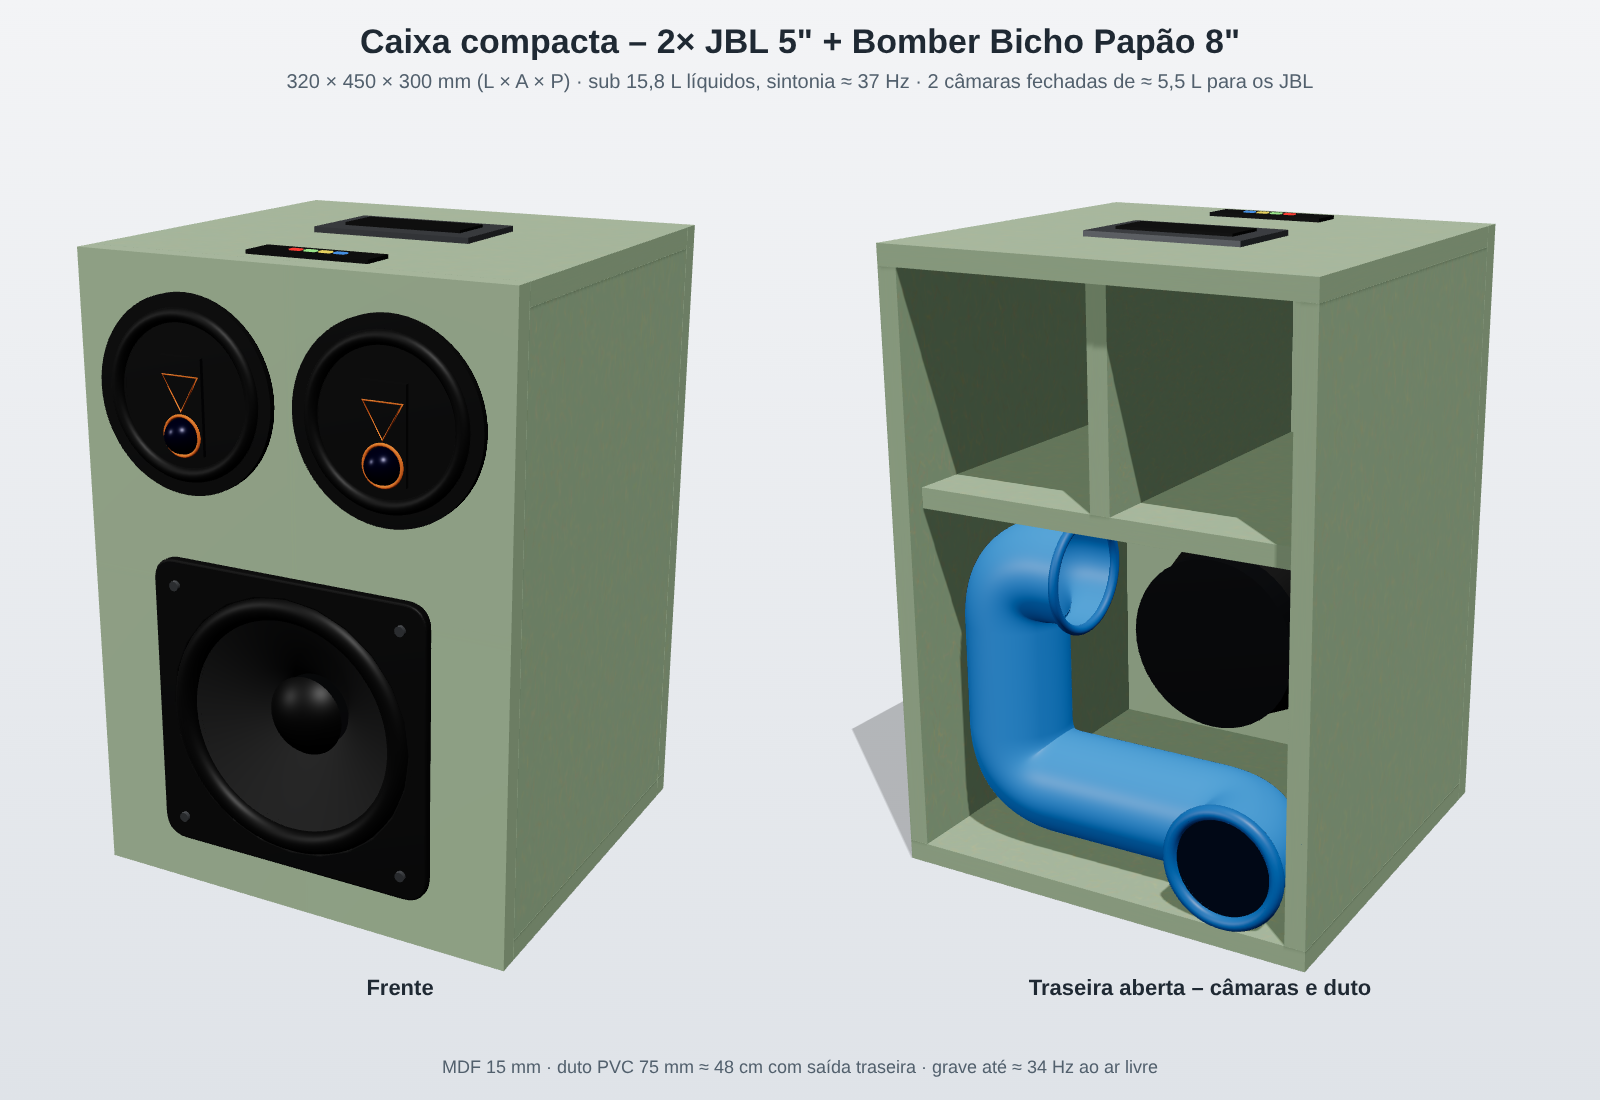
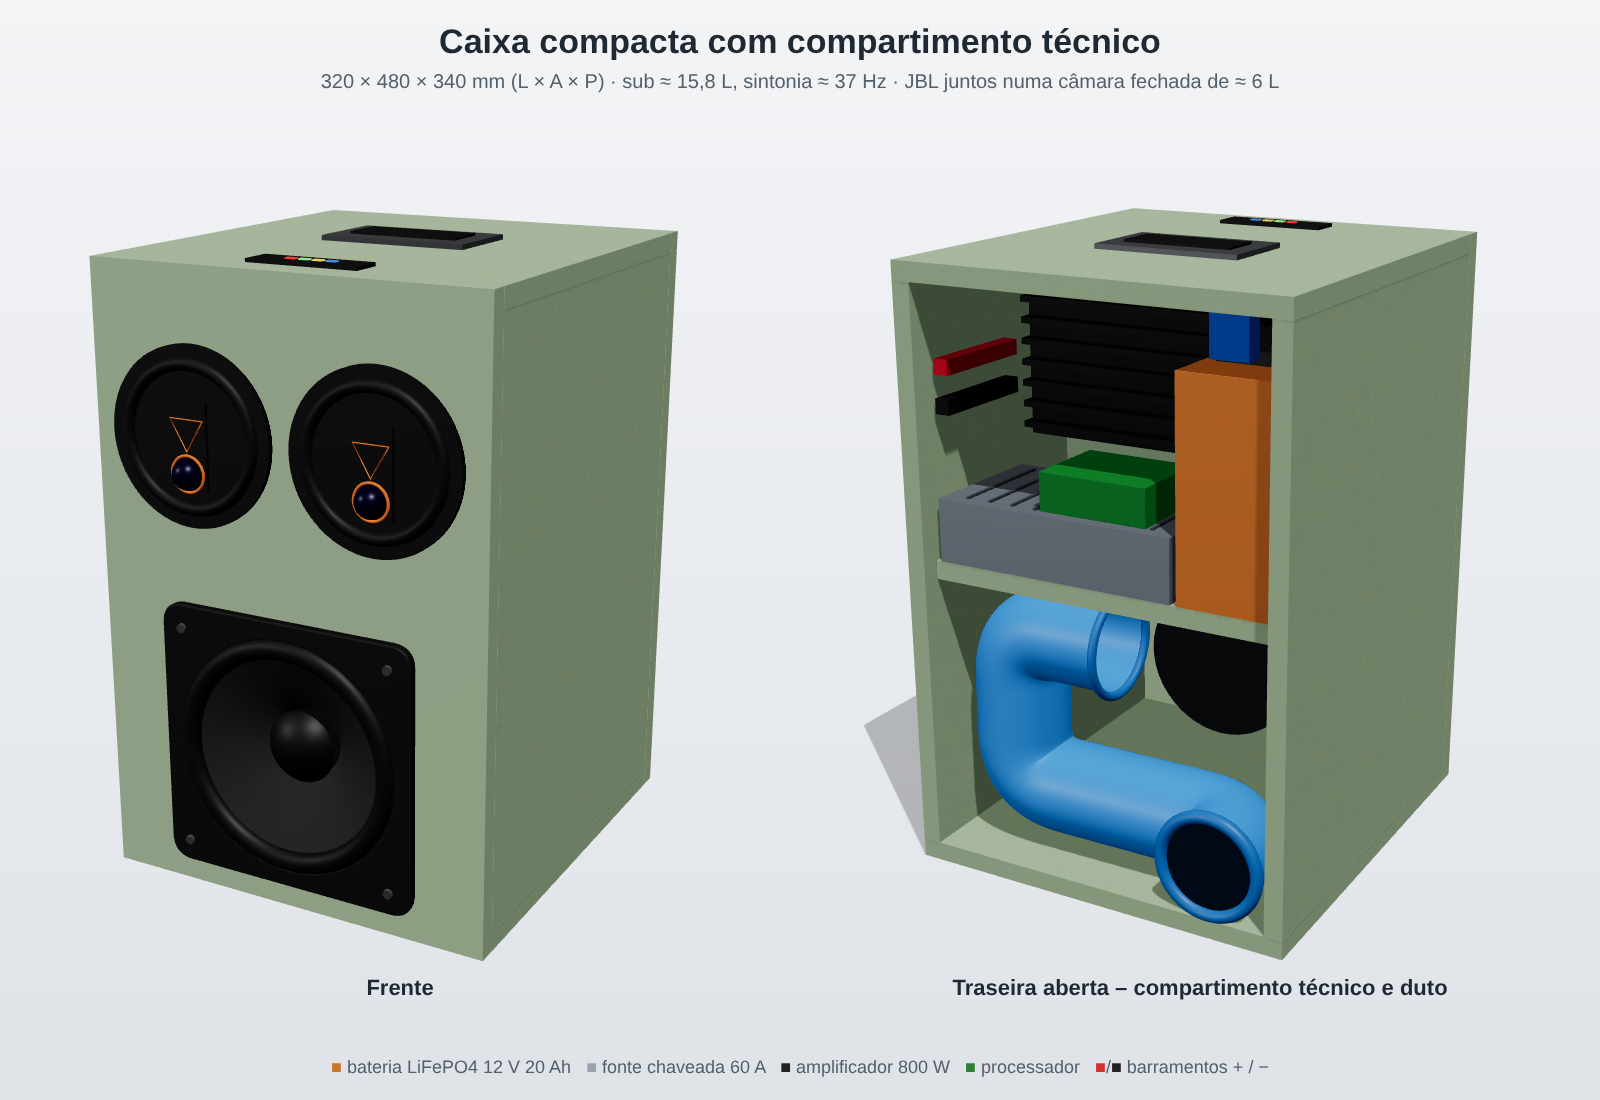
Adiciona compartimento técnico e esquema de alimentação à caixa compacta
Claude-Session: https://claude.ai/code/session_01Xqr2b8JS1uj39tzQWZP4xF

diff --git a/ferramentas/render3d/combo.html b/ferramentas/render3d/combo.html
@@ -6,15 +6,15 @@ body{margin:0;width:1600px;height:1100px;background:linear-gradient(#f3f4f6,#dfe
 .l{position:absolute;top:975px;width:800px;text-align:center;font-size:22px;font-weight:bold;color:#1f2933}
 #f{position:absolute;bottom:22px;width:100%;text-align:center;font-size:18px;color:#52606d}
 </style></head><body>
-<div id="t">Caixa compacta – 2× JBL 5" + Bomber Bicho Papão 8"</div>
-<div id="s">320 × 450 × 300 mm (L × A × P) · sub 15,8 L líquidos, sintonia ≈ 37 Hz · 2 câmaras fechadas de ≈ 5,5 L para os JBL</div>
+<div id="t">Caixa compacta com compartimento técnico</div>
+<div id="s">320 × 480 × 340 mm (L × A × P) · sub ≈ 15,8 L, sintonia ≈ 37 Hz · JBL juntos numa câmara fechada de ≈ 6 L</div>
 <div class="c" id="a" style="left:0"></div><div class="c" id="b" style="left:800px"></div>
-<div class="l" style="left:0">Frente</div><div class="l" style="left:800px">Traseira aberta – câmaras e duto</div>
-<div id="f">MDF 15 mm · duto PVC 75 mm ≈ 48 cm com saída traseira · grave até ≈ 34 Hz ao ar livre</div>
+<div class="l" style="left:0">Frente</div><div class="l" style="left:800px">Traseira aberta – compartimento técnico e duto</div>
+<div id="f"><span style='color:#c8742c'>■</span> bateria LiFePO4 12 V 20 Ah &nbsp; <span style='color:#9aa3ad'>■</span> fonte chaveada 60 A &nbsp; <span style='color:#222'>■</span> amplificador 800 W &nbsp; <span style='color:#2e7d32'>■</span> processador &nbsp; <span style='color:#d32f2f'>■</span>/<span style='color:#222'>■</span> barramentos + / −</div>
 <script src="node_modules/three/build/three.min.js"></script>
 <script>
-const W=32,H=45,D=30,T=1.5;
-const subY=-H/2+T+12.6, jY=H/2-T-7.5, jX=7.5, divY=-H/2+T+25.2+T/2;
+const W=32,H=48,D=34,T=1.5;
+const subH=22, subY=-H/2+T+11, divY=-H/2+T+subH+T/2, upH=H-3*T-subH, jY=divY+T/2+upH/2, jX=7.5, bayZ0=-D/2+T, bayZ1=D/2-T-11-T;
 const X0=xr=>(W/2-T)-xr, Y0=yr=>(-H/2+T)+yr;
 function mdfTex(){const c=document.createElement('canvas');c.width=c.height=512;const g=c.getContext('2d');
  g.fillStyle='#8fa486';g.fillRect(0,0,512,512);
@@ -30,7 +30,7 @@ function scene(open){
  panel(W,T,D-T,0,-H/2+T/2,-T/2);panel(W,T,D-T,0,H/2-T/2,-T/2);
  panel(T,H-2*T,D-T,-W/2+T/2,0,-T/2);panel(T,H-2*T,D-T,W/2-T/2,0,-T/2);
  panel(W-2*T,T,D-2*T,0,divY,0); // divisória horizontal
- panel(T,H/2-T-divY-T/2,D-2*T,0,(divY+T/2+H/2-T)/2,0); // divisória vertical entre JBLs
+ panel(W-2*T,upH,T,0,jY,bayZ1+T/2); // parede entre câmara dos JBL e compartimento técnico
  if(!open){const bk=rectShape();const p=new THREE.Path();p.absarc(X0(24.5),Y0(4.5),3.75,0,Math.PI*2,true);bk.holes.push(p);
   const b=new THREE.Mesh(new THREE.ExtrudeGeometry(bk,{depth:T,bevelEnabled:false}),mdf);b.position.z=-D/2;g.add(b);}
  const black=new THREE.MeshStandardMaterial({color:0x1c1c1c,roughness:0.6,metalness:0.2});
@@ -63,6 +63,20 @@ function scene(open){
   const tri=new THREE.Mesh(new THREE.TorusGeometry(1.6,0.1,3,3),orange);tri.rotation.z=-Math.PI/2;tri.position.set(0,0.6,zf+0.85);j.add(tri);
   const jm=new THREE.Mesh(new THREE.CylinderGeometry(3.2,3.2,2,32),new THREE.MeshStandardMaterial({color:0x2d2f33,metalness:0.6,roughness:0.4}));jm.rotation.x=Math.PI/2;jm.position.z=zf-T-4.5;j.add(jm);
   const jb=new THREE.Mesh(new THREE.CylinderGeometry(5.5,3.2,3,32,1,true),black);jb.rotation.x=Math.PI/2;jb.position.z=zf-T-2;j.add(jb);}
+
+ // compartimento técnico
+ const box=(w,h,d,x,y,z,col,met=0.2)=>{const m=new THREE.Mesh(new THREE.BoxGeometry(w,h,d),new THREE.MeshStandardMaterial({color:col,roughness:0.5,metalness:met}));m.position.set(x,y,z);m.castShadow=m.receiveShadow=true;g.add(m);return m;};
+ const by=divY+T/2;
+ box(8,17,18,-10.5,by+8.5,bayZ0+9,0xc8742c);               // bateria em pé, de lado
+ box(6,1,10,-10.5,by+17.5,bayZ0+9,0x333333);                // terminais
+ box(20,5,11,4,by+2.5,bayZ0+5.5,0x9aa3ad,0.7);             // fonte chaveada deitada
+ for(let i=0;i<9;i++)box(0.25,0.2,9,-4+i*2,by+5.05,bayZ0+5.5,0x5f6770,0.6);
+ box(9,3,7,1,by+6.5,bayZ0+4.5,0x2e7d32);                   // processador
+ box(21,14,5,4,by+14,bayZ1-2.5,0x1e1e1e,0.4);              // amplificador na parede
+ for(let i=0;i<8;i++)box(21,0.5,1.2,4,by+8+i*1.7,bayZ1-5.6,0x2b2b2b,0.6);
+ box(1.2,1.2,9,13.6,by+15,bayZ0+5,0xd32f2f,0.5);           // barramento +
+ box(1.2,1.2,9,13.6,by+12,bayZ0+5,0x222222,0.5);           // barramento -
+ box(3,4,1.5,-10.5,by+20,bayZ0+1,0x1565c0);                 // fusível/chave geral
  // topo: alça e módulo
  const hd=new THREE.Mesh(new THREE.BoxGeometry(12,0.6,7),metal);hd.position.set(0,H/2+0.1,-2);g.add(hd);
  const hd2=new THREE.Mesh(new THREE.BoxGeometry(9,0.3,3.5),black);hd2.position.set(0,H/2+0.45,-2);g.add(hd2);
@@ -72,7 +86,7 @@ function scene(open){
  const pvc=new THREE.MeshStandardMaterial({color:0x3d8bd4,roughness:0.45,side:THREE.DoubleSide});
  const zp=-D/2+T+4.5,R=4.2,P=(x,y,z)=>new THREE.Vector3(x,y,z),path=new THREE.CurvePath();
  const seg=(a,b)=>path.add(new THREE.LineCurve3(a,b)),bend=(a,c,b)=>path.add(new THREE.QuadraticBezierCurve3(a,c,b));
- const ex=X0(24.5),ey=Y0(4.5),lx=X0(4.5),ty=Y0(20.7),endx=X0(10.3),sg=Math.sign(lx-ex);
+ const ex=X0(24.5),ey=Y0(4.5),lx=X0(4.5),ty=Y0(17.5),endx=X0(13.5),sg=Math.sign(lx-ex);
  seg(P(ex,ey,-D/2),P(ex,ey,zp-R));bend(P(ex,ey,zp-R),P(ex,ey,zp),P(ex+sg*R,ey,zp));
  seg(P(ex+sg*R,ey,zp),P(lx-sg*R,ey,zp));bend(P(lx-sg*R,ey,zp),P(lx,ey,zp),P(lx,ey+R,zp));
  seg(P(lx,ey+R,zp),P(lx,ty-R,zp));bend(P(lx,ty-R,zp),P(lx,ty,zp),P(lx-sg*R,ty,zp));
@@ -90,5 +104,5 @@ function scene(open){
 function render(id,open,cam){const el=document.getElementById(id);const rd=new THREE.WebGLRenderer({antialias:true,alpha:true,preserveDrawingBuffer:true});
  rd.setSize(800,880);rd.shadowMap.enabled=true;rd.shadowMap.type=THREE.PCFSoftShadowMap;rd.outputColorSpace=THREE.SRGBColorSpace;rd.toneMapping=THREE.ACESFilmicToneMapping;el.appendChild(rd.domElement);
  const c=new THREE.PerspectiveCamera(30,800/880,1,500);c.position.set(...cam);c.lookAt(0,0,0);rd.render(scene(open),c);}
-render('a',false,[55,38,100]);render('b',true,[-55,36,-100]);window.done=true;
+render('a',false,[60,40,110]);render('b',true,[-60,42,-110]);window.done=true;
 </script></body></html>

diff --git a/ferramentas/desenho_ligacao.py b/ferramentas/desenho_ligacao.py
@@ -1,0 +1,59 @@
+o=[]
+def a(x):o.append(x)
+def box(x,y,w,h,t1,t2,col):
+    a(f'<rect x="{x}" y="{y}" width="{w}" height="{h}" rx="12" fill="{col}" stroke="#333" stroke-width="2"/>')
+    a(f'<text x="{x+w/2}" y="{y+h/2-6}" text-anchor="middle" font-size="20" font-weight="bold" fill="#111">{t1}</text>')
+    a(f'<text x="{x+w/2}" y="{y+h/2+20}" text-anchor="middle" font-size="15" fill="#333">{t2}</text>')
+def ln(pts,col,w=6,dash=""):
+    d=" ".join(f"{'M' if i==0 else 'L'}{x},{y}" for i,(x,y) in enumerate(pts))
+    a(f'<path d="{d}" fill="none" stroke="{col}" stroke-width="{w}" stroke-linejoin="round" {"stroke-dasharray=\"10 7\"" if dash else ""}/>')
+def fuse(x,y,t):
+    a(f'<rect x="{x-32}" y="{y-14}" width="64" height="28" rx="6" fill="#ffd54f" stroke="#333" stroke-width="2"/>')
+    a(f'<text x="{x}" y="{y+6}" text-anchor="middle" font-size="14" font-weight="bold">{t}</text>')
+def tx(x,y,t,s=15,c="#333",anc="middle",wt="normal"):
+    a(f'<text x="{x}" y="{y}" text-anchor="{anc}" font-size="{s}" fill="{c}" font-weight="{wt}">{t}</text>')
+W,H=1600,1000
+a(f'<svg xmlns="http://www.w3.org/2000/svg" width="{W}" height="{H}" font-family="Arial,Helvetica,sans-serif">')
+a(f'<rect width="{W}" height="{H}" fill="#fff"/>')
+tx(W/2,50,"Esquema de alimentação – tomada + bateria",30,"#111",wt="bold")
+tx(W/2,82,"Positivo (+) em vermelho · negativo (−) em preto · fusíveis em amarelo",17,"#555")
+R,K="#d32f2f","#222"
+# blocos
+box(60,170,200,90,"Tomada","127/220 V","#e3f2fd")
+box(340,150,260,130,"Fonte chaveada","12 V · 60 A · saída 14,2–14,4 V","#cfd8dc")
+box(340,560,260,130,"Bateria LiFePO4","12 V 20 Ah · BMS ≥ 100 A","#ffcc80")
+box(1180,140,300,100,"Amplificador 800 W","","#424242")
+box(1180,340,300,80,"Processador (DSP)","12 V","#a5d6a7")
+box(1180,510,300,80,"Módulo Bluetooth/USB","12 V","#b3e5fc")
+a('<rect x="1180" y="140" width="300" height="100" rx="12" fill="#424242"/>');tx(1330,185,"Amplificador 800 W",20,"#fff",wt="bold");tx(1330,211,"+12 V / GND · REM do módulo",15,"#ddd")
+# barramentos
+a('<rect x="820" y="150" width="34" height="470" rx="6" fill="#e57373" stroke="#333" stroke-width="2"/>');tx(837,140,"Barramento +",16,R,wt="bold")
+a('<rect x="1530" y="150" width="34" height="470" rx="6" fill="#616161" stroke="#333" stroke-width="2"/>');tx(1564,140,"Barramento −",16,K,"end","bold")
+ln([(260,215),(340,215)],"#1565c0",4);tx(300,205,"AC",14,"#1565c0")
+ln([(600,190),(700,190)],R)
+a('<polygon points="700,176 700,204 728,190" fill="#333"/><line x1="730" y1="174" x2="730" y2="206" stroke="#333" stroke-width="4"/>')
+tx(715,235,"diodo/relé",14,"#333");tx(715,253,"(isola a fonte)",13,"#666")
+ln([(730,190),(820,190)],R)
+ln([(600,590),(660,590)],R);fuse(692,590,"100 A");ln([(724,590),(750,590)],R)
+a('<circle cx="760" cy="590" r="10" fill="#1565c0"/>');tx(760,625,"chave geral",14,"#1565c0")
+ln([(770,590),(820,590)],R)
+# negativos por baixo
+ln([(470,280),(470,320),(300,320),(300,760),(1547,760),(1547,620)],K)
+ln([(470,690),(470,760)],K)
+tx(920,750,"negativo comum (fonte e bateria)",14,K)
+# cargas
+ln([(854,185),(1030,185)],R);fuse(1062,185,"80 A*");ln([(1094,185),(1180,185)],R)
+ln([(854,375),(1030,375)],R);fuse(1062,375,"5 A");ln([(1094,375),(1180,375)],R)
+ln([(854,545),(1030,545)],R);fuse(1062,545,"3 A");ln([(1094,545),(1180,545)],R)
+for y in [215,395,565]: ln([(1480,y),(1530,y)],K,4)
+box(1180,640,300,80,"Sub BP 8\" + 2× JBL 5\"","nas saídas do amplificador","#eeeeee")
+# notas
+y0=815
+notas=["Com tomada: a fonte alimenta o som e carrega a bateria; nas pancadas a bateria ajuda a fonte.",
+"Sem tomada: a bateria alimenta tudo pelo mesmo barramento.",
+"A fonte precisa ter LIMITE DE CORRENTE ou função carregador (para não jogar 60 A numa bateria vazia).",
+"* Fusível do amplificador: usar o valor indicado no manual dele.",
+"Cabos principais curtos e grossos (16–25 mm²); fusível da bateria a no máx. 20 cm do polo +."]
+for i,n in enumerate(notas): tx(60,y0+i*36,"• "+n,18,"#222","start")
+a('</svg>')
+open('ligacao.svg','w').write("\n".join(o))

diff --git a/notas/projeto-compacto.md b/notas/projeto-compacto.md
@@ -31,3 +31,25 @@
 - Furo e profundidade dos JBL Multisystem 5" (medir; um 5" típico tem furo de cerca de 11–12 cm e frame de cerca de 13,5 cm).
 - Medidas da caixa atual, para comparar.
 - Quantos canais tem o amplificador de 800 W.
+
+## Revisão: compartimento técnico (tomada + bateria)
+
+![Esquema de ligação](projeto-compacto-ligacao.png)
+
+- **Medida externa:** 320 × 480 × 340 mm (L × A × P).
+- **Câmara do sub (embaixo):** interno 290 × 220 × 310 mm, cerca de 15,8 L líquidos. Duto de 75 mm com cerca de 48 cm saindo pela traseira.
+- **JBL:** os dois juntos numa câmara **fechada** na frente de cima (interno 290 × 215 × 110 mm, cerca de 6 L).
+- **Compartimento técnico:** atrás da câmara dos JBL (interno 290 × 215 × 185 mm, cerca de 11,5 L), vedado em relação às câmaras de som.
+  - Tampa traseira removível, com grelha de ventilação e, se precisar, uma ventoinha de 12 V.
+  - Cabem a bateria LiFePO4 12 V 20 Ah (em pé), a fonte chaveada 60 A (deitada), o amplificador (preso na parede) e o processador.
+  - Os barramentos + e − e o fusível com chave geral ficam na lateral.
+- **Alimentação:**
+  - A fonte chaveada 12 V 60 A fica ajustada em 14,2–14,4 V e precisa ter **limite de corrente** ou função carregador.
+  - Ela fica em paralelo com a bateria pelo barramento. Com tomada, a fonte alimenta o som e carrega a bateria. Sem tomada, a bateria segura tudo.
+  - Um diodo ou relé isola a fonte quando está desligada.
+- **Fusíveis:**
+  - bateria: 100 A, perto do polo;
+  - amplificador: conforme o manual;
+  - processador: 5 A;
+  - módulo: 3 A.
+- **Cabos principais:** 16–25 mm².
